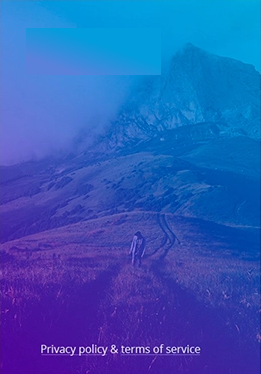
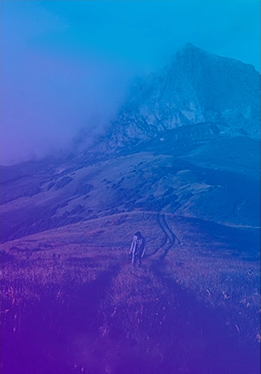
Left column style update #8

Changed region(s): [[0.1533, 0.9118, 0.7663, 0.9706], [0.092, 0.0588, 0.2452, 0.0882]]

diff --git a/css/main.css b/css/main.css
@@ -15,21 +15,48 @@ body {
     display: inline-block;
     width: 800px;
     margin-left: calc((100% - 800px) / 2);
-    margin-top: 100px;   
+    margin-top: 100px;
+    position: relative;   
 }
 
 .left-column {
+    display: inline-block;
     width: 40%;
-    float: left;
+    color: #fff;
     background-color: blue;
+    background-image: url(../img/signup.png);
+    background-repeat: no-repeat;
+    background-position: center;
+    background-size: cover;
+    position: absolute;
+    left: 0;
+    top: 30px;
+    bottom: 30px;
+}
+
+.left-column > .main-title {
+    position: absolute;
+    top: 20px;
+    left: 30px;
+    right: 30px;
+}
+
+.left-column > .links {
+    position: absolute;
+    left: 30px;
+    right: 30px;
+    bottom: 20px;
+}
+
+.left-column > .links > a {
+    color: #fff;
 }
 
 .right-column {
     width: 60%;
-    float: left;
+    float: right;
     padding: 50px;
     background-color: #fff;
-    position: relative;
 }
 
 .close {

diff --git a/index.html b/index.html
@@ -10,7 +10,12 @@
 <body>
     <main class="container">
         <div class="left-column">
-                LEFT COL
+                <h1 class="main-title">Sign up</h1>
+                <div class="links">
+                    <a href="#">Privacy policy</a>
+                    <span>&</span>
+                    <a href="#">Terms of service</a>
+                </div>
         </div>
         <div class="right-column">
             <div class="close">x</div>
